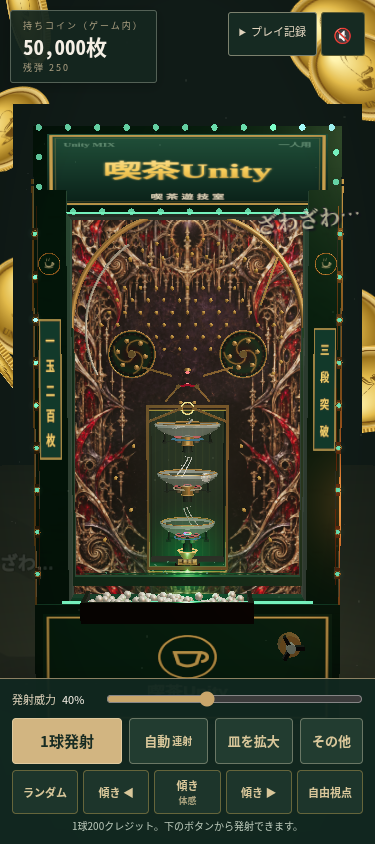
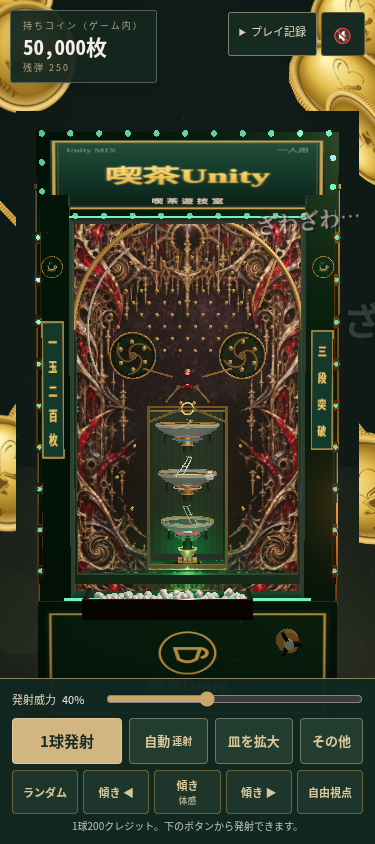
Verify miss and win lamp responses across mobile sizes

Changed region(s): [[0.0, 0.0, 1.0, 0.8009], [0.0, 0.3081, 0.0587, 0.6469], [0.0, 0.2464, 0.0587, 0.2773]]

diff --git a/test/silver_cabinet_lamps_browser.py b/test/silver_cabinet_lamps_browser.py
@@ -68,11 +68,20 @@ with sync_playwright() as p:
         }''')
         assert priority == 'jackpot', priority
         page.evaluate('SILVER_GAME.fx.clearCabinetPulse()')
+        page.evaluate("SILVER_GAME.fx.pulseCabinet('sink',1,false)")
+        page.wait_for_function("() => SILVER_GAME.fx._neonSignature.endsWith(':sink:1:false')")
+        miss_line = page.evaluate('SILVER_GAME.refs.neonMats[0].color.toArray()')
+        page.evaluate("SILVER_GAME.fx.pulseCabinet('sink',1,true)")
+        page.wait_for_function("() => SILVER_GAME.fx._neonSignature.endsWith(':sink:1:true')")
+        win_line = page.evaluate('SILVER_GAME.refs.neonMats[0].color.toArray()')
+        assert abs((miss_line[0] - miss_line[1]) - 0.3848) < 0.01, miss_line
+        assert abs((win_line[0] - win_line[1]) - 0.1456) < 0.01, win_line
+        page.evaluate('SILVER_GAME.fx.clearCabinetPulse()')
 
         page.evaluate('SILVER_GAME.toBowl(1)')
         pulse = page.evaluate('SILVER_GAME.fx.cabinetPulse?.kind')
         assert pulse == 'bowl', pulse
-        page.wait_for_function('Math.max(...SILVER_GAME.refs.cabinetLampIM.instanceColor.array) > 0.5', timeout=15000)
+        page.wait_for_function("() => SILVER_GAME.fx.cabinetPulse?.kind === 'bowl' && SILVER_GAME.fx.cabinetPulse.age > 0.1 && SILVER_GAME.fx._bulbSignature.includes(':bowl:') && SILVER_GAME.fx._neonSignature.includes(':bowl:')", timeout=15000)
         event_max = page.evaluate('Math.max(...SILVER_GAME.refs.cabinetLampIM.instanceColor.array)')
         event_glow_max = page.evaluate('Math.max(...SILVER_GAME.refs.cabinetLampGlow.instanceColor.array)')
         event_bulb_palette = page.evaluate('''() => {
@@ -128,7 +137,7 @@ with sync_playwright() as p:
         assert page.evaluate('SILVER_GAME.S.fired') == 1
         assert page.evaluate('SILVER_GAME.S.funds') == 49800
         assert not errors, errors
-        rows.append({**initial, 'eventLamp': pulse, 'idleMaxLampColor': idle_max, 'eventMaxLampColor': event_max, 'idleGlowMax': idle_glow_max, 'eventGlowMax': event_glow_max, 'idleMarqueePalette': idle_bulb_palette, 'eventMarqueePalette': event_bulb_palette, 'idleLinePalette': idle_line_palette, 'eventLinePalette': event_line_palette, 'tierChaseAndMissPalette': True, 'priorityPulse': priority, 'jackpotModePersists': True, 'reducedMotionStatic': True, 'pauseClearsPulse': True, 'singleShot': 1, 'errors': errors})
+        rows.append({**initial, 'eventLamp': pulse, 'idleMaxLampColor': idle_max, 'eventMaxLampColor': event_max, 'idleGlowMax': idle_glow_max, 'eventGlowMax': event_glow_max, 'idleMarqueePalette': idle_bulb_palette, 'eventMarqueePalette': event_bulb_palette, 'idleLinePalette': idle_line_palette, 'eventLinePalette': event_line_palette, 'tierChaseAndMissPalette': True, 'sinkMissAndWinPalette': True, 'priorityPulse': priority, 'jackpotModePersists': True, 'reducedMotionStatic': True, 'pauseClearsPulse': True, 'singleShot': 1, 'errors': errors})
         page.close()
     for w, h in [(375, 667), (844, 390)]:
         page = browser.new_page(viewport={'width': w, 'height': h}, device_scale_factor=1, has_touch=True, is_mobile=True)

diff --git a/docs/retro-cabinet-lamps-worklog.md b/docs/retro-cabinet-lamps-worklog.md
@@ -5,13 +5,13 @@
 - Existing dirty checkout `/workspace/Unity-Web` and its unrelated H3 changes remain untouched.
 - User-selected direction: first concept, dark emerald cabinet with brass trim and warm/green/champagne lamps.
 - Scope lock: preserve playfield/役物 geometry, physics/settlement, CFG, controls, camera/layout values and audio. Only decorative cabinet appearance and lamp choreography may change.
-- Active implementation: approximately 62 minutes through 18:57 UTC; dedicated 60-minute QA phase: not started. This is a conservative estimate; tool waits, browser startup and idle time are excluded. Browser runs so far are implementation smoke checks, not counted toward the separate QA allowance.
+- Active implementation: approximately 68 minutes through 19:02 UTC; dedicated 60-minute QA phase: not started. This is a conservative estimate; tool waits, browser startup and idle time are excluded. Browser runs so far are implementation smoke checks, not counted toward the separate QA allowance.
 - Baseline: captured at 375/390/414 × 844 in Chromium, same page and play flow. Main reference is `docs/qa/retro-cabinet-lamps/baseline/390x844-idle.png`; initial local-only logo 404 from an incorrect server root was corrected before validating changes.
 - Exterior: dark emerald enamel body with deterministic satin-grain texture, batched brass rails, 18 instanced side lamps with bezels and soft glow, two symmetric coffee medallions, and the existing marquee lights retained. Lower marquee guide line moved to the sign lip to clear its subtitle. The side rails, header bulbs, and horizontal sign light bars now share event color/choreography.
 - Lamp state is deterministic and separate from physics. Gate/bowl/sink/jackpot events produce amber/emerald/champagne pulses with progression priority; weaker new events cannot replace an active win/jackpot. Sink miss is amber; deeper bowl entries advance farther. Reduced-motion mode holds static color, disables chase, and avoids repeated instance-buffer uploads. Pause and game over clear temporary pulses.
 - A previous suspicion that the frame loop overwrote jackpot mode was checked against `jackpotLock`; no bug was present and the unnecessary change was reverted.
 - Matched captures: baseline `docs/qa/retro-cabinet-lamps/baseline/390x844-wide-matched.png`, updated `docs/qa/retro-cabinet-lamps/final/390x844-wide-matched.png`; target-width idle/event/jackpot/reduced captures are under `docs/qa/retro-cabinet-lamps/final/`.
-- Latest implementation smoke across 375/390/414×844, 375×667, and 844×390: phase `play`, board children 54, cabinet lamps 18, no horizontal overflow, event pulse priority and stage paths pass, jackpot lock persists, reduced-motion lamp/glow/marquee arrays remain byte-identical between stable frames, pause clears pulses, single shot still deducts 200, and no app JS/page/resource errors. Side-lamp max channel rises from ~0.24 idle to 1.75–2.02 during bowl entry; diffuse-glow max rises from ~0.11 to 0.81–0.93. Header-bulb green-minus-red contrast changes from ~-0.15 idle to +1.40…+1.64 during entry; sign strip green-minus-red changes from ~-0.12 to +0.75.
+- Latest implementation smoke across 375/390/414×844, 375×667, and 844×390: phase `play`, board children 54, cabinet lamps 18, no horizontal overflow, event pulse priority and stage paths pass, sink miss/win colors distinguish amber/champagne, jackpot lock persists, reduced-motion lamp/glow/marquee arrays remain byte-identical between stable frames, pause clears pulses, single shot still deducts 200, and no app JS/page/resource errors. Side-lamp max channel rises from ~0.24 idle to ~2.05 during bowl entry; diffuse-glow max rises from ~0.11 to ~0.95. Header-bulb green-minus-red contrast changes from ~-0.15 idle to +1.64 during entry; sign strip green-minus-red changes from ~-0.12 to +0.75.
 - Focused lamp-state/shell-contract tests pass 12/12. Earlier, all silver unit suites except `silver-security.test.js` passed 23/23; the security suite could not resolve `ws` because this isolated worktree has no installed project dependencies. No package was added. `node --check`, Python syntax check, and `git diff --check` pass.
 - Matched 390px renderer count after batching and emblems: main 194 calls / 153,790 triangles; updated 203 calls / 161,046 triangles (+9 calls, +4.72% triangles), render size unchanged. Browser rAF is very slow under software WebGL; this is not a physical handset or hardware-acceleration measurement. At matched camera mode, machine bounds remain `[-1,-0.02,-1.161]` to `[1,3.056,0.839]`, renderer canvas remains 390×844, and board child count remains 54.
 - Current phase decision: continue implementation improvements. The requested 120-minute implementation block is not complete; separate 60-minute QA and production deployment have not started.
